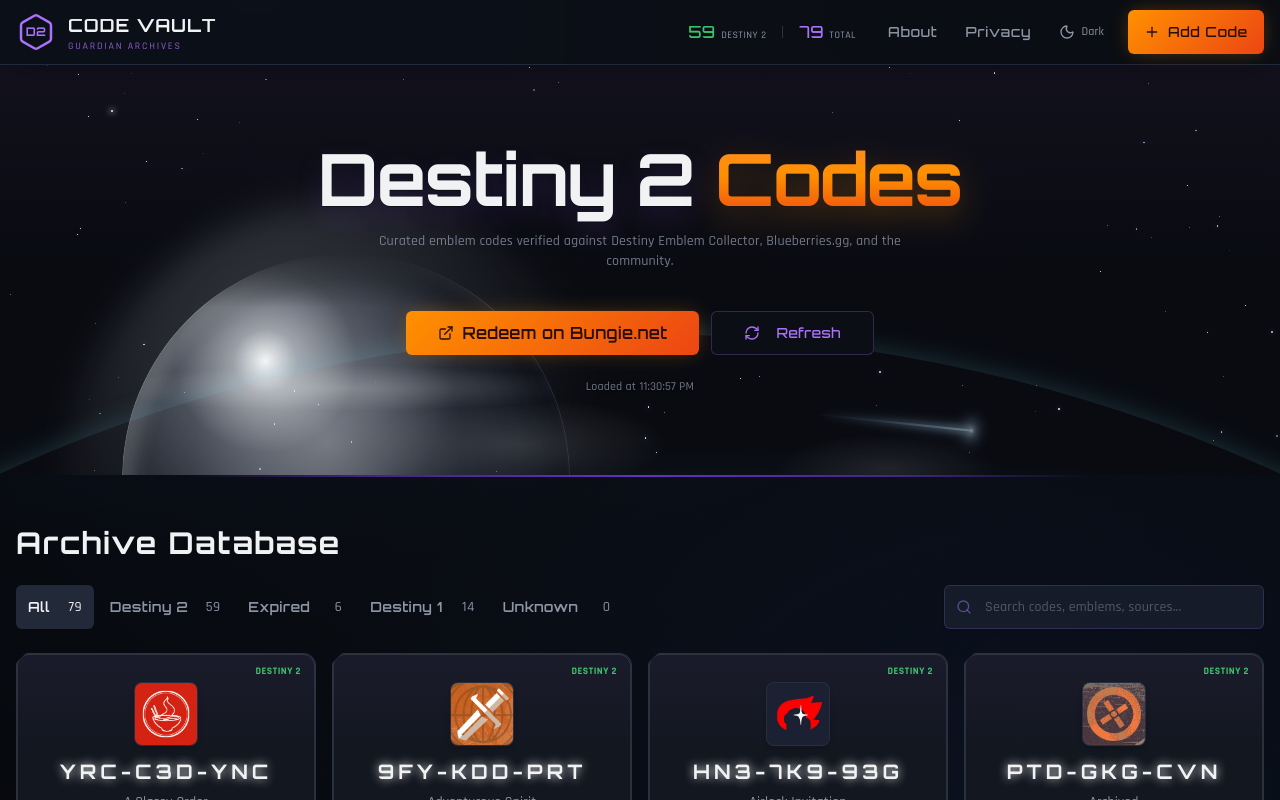
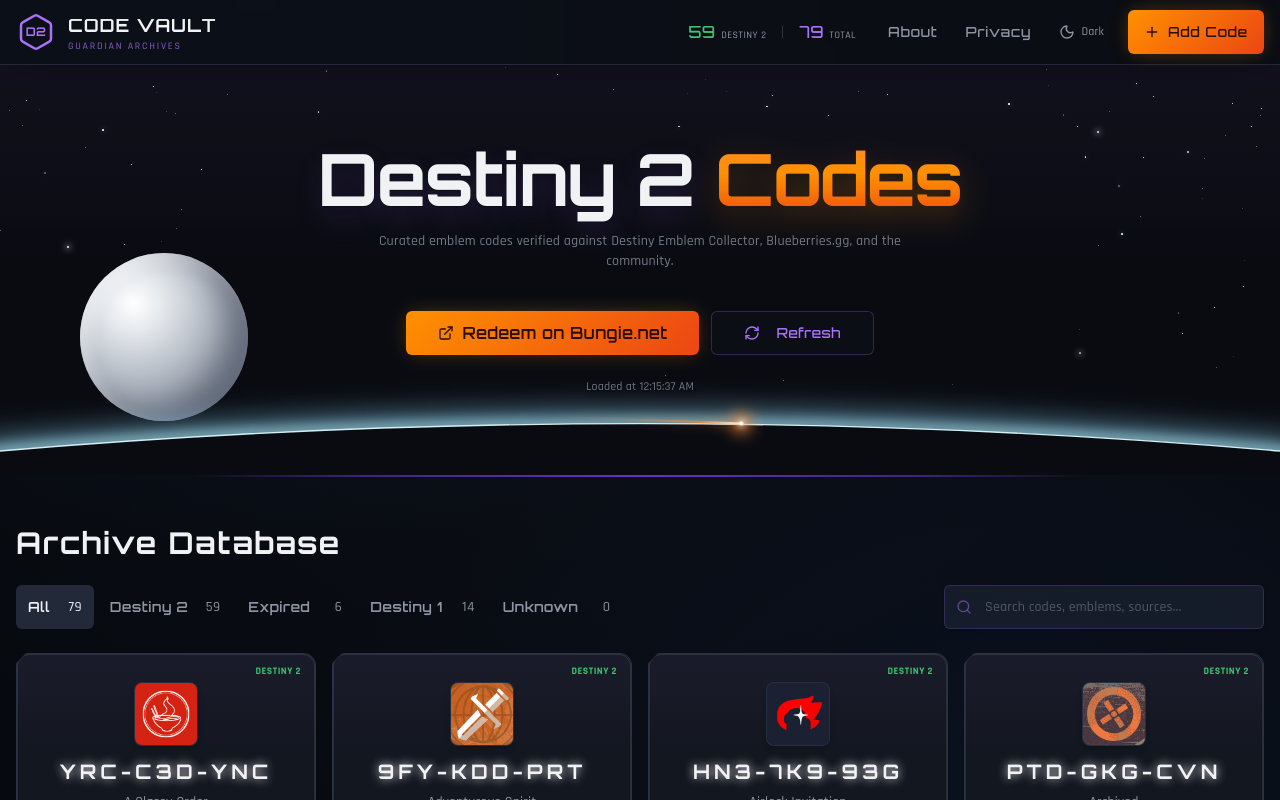
Seat a whole pearl over one Earth limb (#202)
The wide circle read as a clipped flare and crossed the title. The hero now keeps one bowed horizon and a complete bone-white sphere clear of the lockup.

Changed region(s): [[0.0, 0.25, 1.0, 0.5938]]

diff --git a/src/index.css b/src/index.css
@@ -931,19 +931,6 @@
       -22px 0 10px 1px hsl(var(--wake) / 0.28);
   }
 
-  .shooting-star::after {
-    content: '';
-    position: absolute;
-    right: 0;
-    top: 50%;
-    width: 70%;
-    height: 8px;
-    transform: translateY(-50%);
-    border-radius: 999px;
-    background: linear-gradient(90deg, transparent 0%, hsl(var(--wake) / 0.45) 100%);
-    filter: blur(2px);
-  }
-
   .shooting-star-warm {
     --wake: var(--solar-accent);
   }
@@ -954,17 +941,17 @@
 
   @keyframes meteor {
     0% {
-      transform: translate3d(0, 0, 0) rotate(var(--angle, 18deg)) scaleX(0.25);
+      transform: translate3d(0, 0, 0) rotate(var(--angle, 8deg));
       opacity: 0;
     }
-    3% { opacity: 1; }
-    7% { opacity: 1; }
-    18% {
-      transform: translate3d(var(--travel, 80vw), var(--drop, 20vh), 0) rotate(var(--angle, 18deg)) scaleX(1);
+    4% { opacity: 1; }
+    8% { opacity: 1; }
+    16% {
+      transform: translate3d(var(--travel, 70vw), var(--drop, 6vh), 0) rotate(var(--angle, 8deg));
       opacity: 0;
     }
     100% {
-      transform: translate3d(var(--travel, 80vw), var(--drop, 20vh), 0) rotate(var(--angle, 18deg)) scaleX(1);
+      transform: translate3d(var(--travel, 70vw), var(--drop, 6vh), 0) rotate(var(--angle, 8deg));
       opacity: 0;
     }
   }
@@ -994,83 +981,73 @@
     background: #000;
   }
 
-  /* Earth. The bright air is a ring on the circle, so the horizon bows. */
-  .hero-limb {
+  /* One horizon. The bow is an SVG arc. The night side matches the sky,
+     so the planet reads as a limb, not a second hill. */
+  .hero-earth {
     position: absolute;
-    left: 50%;
-    bottom: -229vw;
-    width: 240vw;
-    height: 240vw;
-    transform: translateX(-50%);
-    border-radius: 50%;
-    pointer-events: none;
-    background:
-      radial-gradient(ellipse 7% 2.2% at 46% 3.6%, hsl(0 0% 100% / 0.14), transparent 70%),
-      radial-gradient(ellipse 5% 1.6% at 58% 4.4%, hsl(198 50% 94% / 0.1), transparent 72%),
-      radial-gradient(circle at 50% 50%,
-        hsl(222 46% 5% / 0.96) 0,
-        hsl(220 44% 8% / 0.94) calc(50% - 42px),
-        hsl(212 58% 20% / 0.88) calc(50% - 18px),
-        hsl(198 86% 48% / 0.55) calc(50% - 7px),
-        hsl(188 100% 82% / 0.9) calc(50% - 2px),
-        transparent 50%);
-    box-shadow: 0 0 28px 1px hsl(192 95% 72% / 0.18);
-  }
-
-  /* The Traveler. Pearl shell rising behind the limb, lit from the upper left. */
-  .hero-traveler {
-    position: absolute;
-    left: 27%;
-    bottom: 8%;
-    width: clamp(16rem, 36vw, 28rem);
-    aspect-ratio: 1;
-    transform: translate(-50%, 58%);
+    left: 0;
+    right: 0;
+    bottom: 0;
+    width: 100%;
+    height: 112px;
     pointer-events: none;
   }
 
-  .hero-traveler-glow {
-    position: absolute;
-    inset: -12%;
-    border-radius: 50%;
-    background: radial-gradient(circle at 38% 24%, hsl(210 40% 92% / 0.2), transparent 58%);
+  .earth-fill {
+    fill: hsl(220 32% 5%);
+  }
+
+  .oled-mode .earth-fill {
+    fill: #000;
+  }
+
+  .earth-haze {
+    filter: blur(7px);
+  }
+
+  .earth-haze-wide {
     filter: blur(16px);
   }
 
-  @media (max-width: 640px) {
+  /* A whole pearl, above the limb. The arc is too gentle at the sides
+     to cut the disc without looking like a straight slice. */
+  .hero-traveler {
+    position: absolute;
+    left: 80px;
+    bottom: 54px;
+    width: 168px;
+    height: 168px;
+    border-radius: 50%;
+    pointer-events: none;
+    background:
+      radial-gradient(circle at 32% 30%,
+        hsl(0 0% 100%) 0%,
+        hsl(214 18% 91%) 18%,
+        hsl(216 12% 76%) 42%,
+        hsl(218 10% 60%) 70%,
+        hsl(220 14% 48%) 100%);
+    box-shadow:
+      inset -22px -14px 28px hsl(222 22% 24% / 0.42),
+      inset 8px 6px 14px hsl(0 0% 100% / 0.5);
+  }
+
+  @media (max-width: 1024px) {
     .hero-traveler {
-      left: 16%;
-      bottom: -6%;
-      width: 15rem;
-      transform: translate(-50%, 76%);
+      left: 20px;
+      bottom: 40px;
+      width: 96px;
+      height: 96px;
     }
   }
 
-  .hero-traveler-shell {
-    position: absolute;
-    inset: 0;
-    border-radius: 50%;
-    background:
-      radial-gradient(ellipse 78% 7% at 50% 30%, hsl(0 0% 100% / 0.2), transparent 72%),
-      radial-gradient(circle at 32% 24%,
-        hsl(0 0% 100% / 0.95) 0%,
-        hsl(210 35% 94% / 0.55) 7%,
-        hsl(216 18% 76% / 0.2) 20%,
-        transparent 42%),
-      radial-gradient(circle at 46% 42%,
-        hsl(220 16% 82% / 0.42) 0%,
-        hsl(220 18% 52% / 0.16) 38%,
-        hsl(222 28% 16% / 0.22) 64%,
-        transparent 78%),
-      radial-gradient(circle at 82% 46%,
-        hsl(222 42% 4% / 0.78) 0%,
-        hsl(222 36% 8% / 0.28) 26%,
-        transparent 50%);
-    box-shadow:
-      inset -22px 4px 36px hsl(222 42% 4% / 0.42),
-      inset 12px 8px 18px hsl(0 0% 100% / 0.22),
-      inset 0 0 0 1px hsl(210 40% 96% / 0.16);
-    -webkit-mask-image: linear-gradient(to bottom, transparent 0%, #000 12%, #000 100%);
-    mask-image: linear-gradient(to bottom, transparent 0%, #000 12%, #000 100%);
+  @media (max-width: 640px) {
+    .hero-earth { height: 92px; }
+    .hero-traveler {
+      left: 14px;
+      bottom: 28px;
+      width: 72px;
+      height: 72px;
+    }
   }
 
   .hero-loaded {

diff --git a/src/components/HeroSection.tsx b/src/components/HeroSection.tsx
@@ -25,7 +25,9 @@ function generateStars(count: number): SkyStar[] {
     guard += 1;
     const left = Math.random() * 100;
     const top = Math.random() * 100;
-    // The lockup sits in the middle. Keep that band clear.
+    // The lockup sits in the middle. The planet and the sphere own the lower left.
+    if (top > 78) continue;
+    if (left < 24 && top > 46) continue;
     if (left > 16 && left < 84 && top > 16 && top < 74) continue;
     const roll = Math.random();
     const tier = roll > 0.94 ? 'bright' : roll > 0.72 ? 'mid' : 'dim';
@@ -46,20 +48,20 @@ function generateStars(count: number): SkyStar[] {
 export function HeroSection({ lastUpdate, onRefresh, isLoading }: HeroSectionProps) {
   const stars = useMemo(() => generateStars(72), []);
   const shootingStars = useMemo(() => [
-    { id: 1, top: '7%', left: '-14%', delay: '1.4s', duration: '11s', angle: '14deg', travel: '92vw', drop: '18vh', width: '16rem', tone: 'arc' as const },
-    { id: 2, top: '3%', left: '18%', delay: '6.2s', duration: '15s', angle: '28deg', travel: '52vw', drop: '24vh', width: '10rem' },
-    { id: 3, top: '14%', left: '-20%', delay: '9.8s', duration: '9.5s', angle: '8deg', travel: '120vw', drop: '12vh', width: '22rem', tone: 'warm' as const },
-    { id: 4, top: '78%', left: '-8%', delay: '4s', duration: '13s', angle: '6deg', travel: '88vw', drop: '8vh', width: '18rem' },
-    { id: 5, top: '20%', left: '48%', delay: '12.5s', duration: '16s', angle: '36deg', travel: '40vw', drop: '26vh', width: '8rem', tone: 'arc' as const },
+    { id: 1, top: '4%', left: '-10%', delay: '2.2s', duration: '13s', angle: '7deg', travel: '78vw', drop: '5vh', width: '16rem', tone: 'arc' as const },
+    { id: 2, top: '1%', left: '28%', delay: '8.4s', duration: '16s', angle: '12deg', travel: '48vw', drop: '7vh', width: '11rem' },
+    { id: 3, top: '86%', left: '22%', delay: '5s', duration: '14s', angle: '2deg', travel: '58vw', drop: '2vh', width: '16rem', tone: 'warm' as const },
   ], []);
 
   return (
     <section className="hero-sky relative py-16 md:py-20 overflow-hidden">
-      <div className="hero-traveler" aria-hidden="true">
-        <span className="hero-traveler-glow" />
-        <span className="hero-traveler-shell" />
-      </div>
-      <div className="hero-limb" aria-hidden="true" />
+      <div className="hero-traveler" aria-hidden="true" />
+      <svg className="hero-earth" viewBox="0 0 1440 120" preserveAspectRatio="none" aria-hidden="true">
+        <path className="earth-haze earth-haze-wide" d="M-20 96 Q 720 34 1460 96" fill="none" stroke="hsl(198 100% 78%)" strokeOpacity="0.7" strokeWidth="22" />
+        <path className="earth-haze" d="M-20 96 Q 720 34 1460 96" fill="none" stroke="hsl(190 100% 86%)" strokeOpacity="0.9" strokeWidth="8" />
+        <path className="earth-fill" d="M-20 96 Q 720 34 1460 96 L 1460 160 L -20 160 Z" />
+        <path d="M-20 96 Q 720 34 1460 96" fill="none" stroke="hsl(186 100% 94%)" strokeOpacity="0.92" strokeWidth="1.5" />
+      </svg>
       <div className="stars-container">
         {stars.map((star) => (
           <div

diff --git a/README.md b/README.md
@@ -315,6 +315,14 @@ This release directly addresses community feedback from [r/DestinyTheGame](https
 ### Version
 - Bumped `package.json` version to **2.4.0**
 
+## 📋 v2.9.8 Updates (November 2026)
+
+The Traveler is a whole pearl in the lower sky. Earth is one bowed limb.
+
+- The sphere stays clear of the title, the buttons, and the clock.
+- The horizon is a single arc with a soft atmosphere. The hero stays night in light mode and on OLED.
+- Shooting stars keep a bright head and a long tail, and they stay off the title.
+
 ## 📋 v2.9.7 Updates (November 2026)
 
 The wakes have a bright head and a long tail. Earth is a bowed limb, and the Traveler rises behind it.
